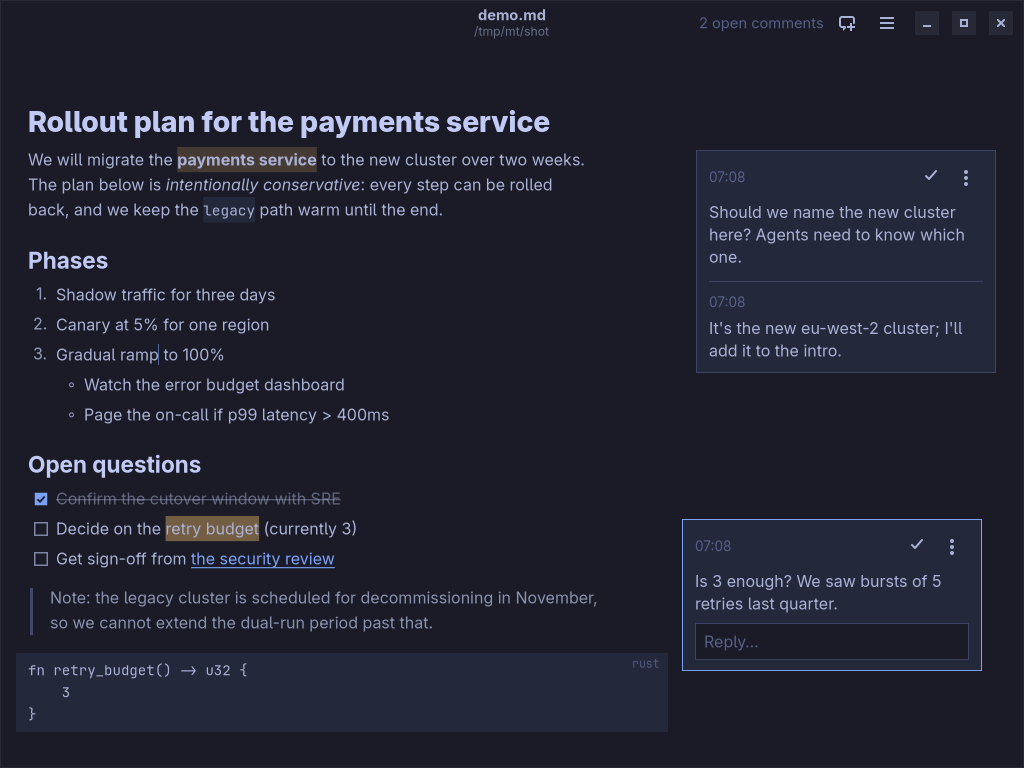
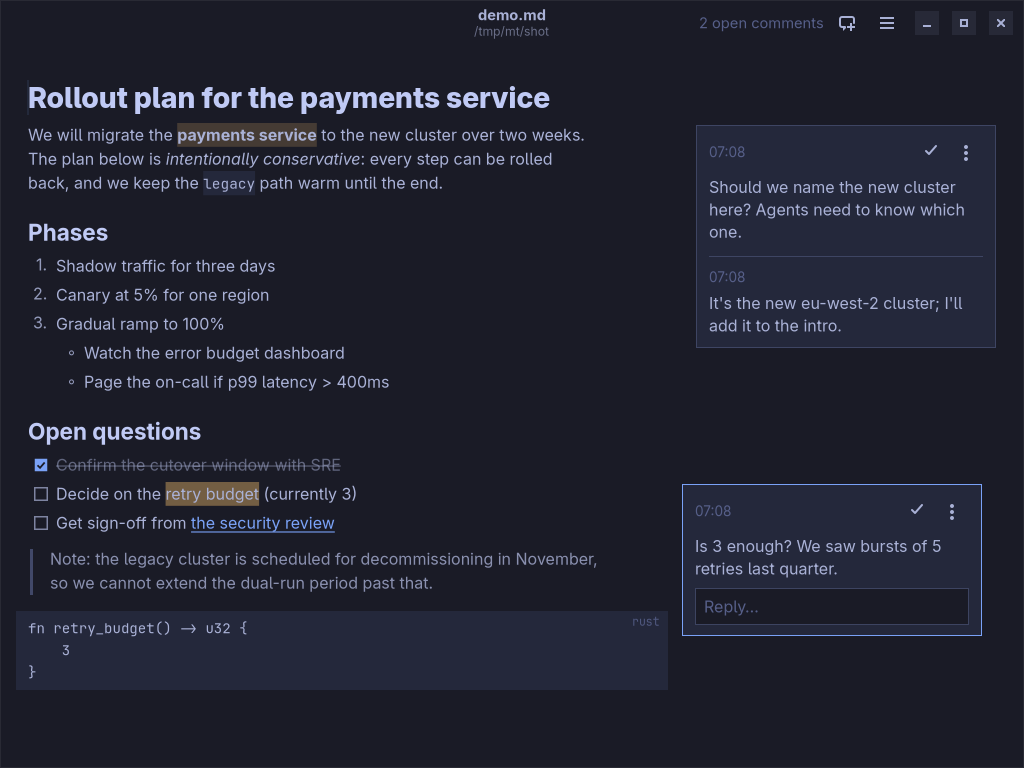
Widen the text column and tighten spacing to common defaults
- Text column up to 760px (about 100 characters) instead of 680px.
  Screen studies of line length find no speed or comprehension cost up
  to about 100 characters per line.
- Body line pitch of exactly 1.5 em (GitHub's, Obsidian's and Notion's
  value), computed from the font's own metrics, since Pango's
  line-height factor multiplies the natural line height, not the size.
- Paragraph gap 12px (so a paragraph break is 1.5 lines), 14px above
  h5/h6, 4px around rules, and a 32px top margin that scales with the
  text size.
- Refresh the README screenshot.

diff --git a/src/ui/view.rs b/src/ui/view.rs
@@ -23,7 +23,9 @@ pub struct Geometry {
 }
 
 pub fn geometry(width: i32, scale: f64) -> Geometry {
-    let max_doc = (680.0 * scale) as i32;
+    // About 100 characters of the body font. Screen studies find no speed
+    // or comprehension cost up to about 100 characters per line.
+    let max_doc = (760.0 * scale) as i32;
     let room = width - CARD_WIDTH - GUTTER_GAP - 2 * SIDE_PAD;
     let doc_width = room.clamp(300, max_doc).min((width - 2 * SIDE_PAD).max(120));
     let mut left = (width - doc_width) / 2;
@@ -82,7 +84,7 @@ mod imp {
             let obj = self.obj();
             obj.set_wrap_mode(gtk::WrapMode::WordChar);
             obj.add_css_class("margin-doc");
-            obj.set_top_margin(56);
+            obj.set_top_margin(32);
             obj.set_bottom_margin(240);
             obj.set_accepts_tab(true);
             obj.set_has_tooltip(true);
@@ -99,6 +101,10 @@ mod imp {
                 self.geometry.set(g);
                 obj.set_left_margin(g.left);
                 obj.set_right_margin((width - g.left - g.doc_width).max(0));
+            }
+            let top = (32.0 * scale).round() as i32;
+            if obj.top_margin() != top {
+                obj.set_top_margin(top);
             }
             let bottom = (height * 2 / 5).max(120);
             if obj.bottom_margin() != bottom {
@@ -613,4 +619,21 @@ impl DocView {
 
 fn set_color(cr: &gtk::cairo::Context, c: &gdk::RGBA) {
     cr.set_source_rgba(c.red() as f64, c.green() as f64, c.blue() as f64, c.alpha() as f64);
+}
+
+#[cfg(test)]
+mod tests {
+    use super::*;
+
+    #[test]
+    fn column_is_about_100_characters_beside_the_gutter() {
+        let g = geometry(1340, 1.0);
+        assert_eq!(g.doc_width, 760);
+        assert!(g.gutter_x + CARD_WIDTH <= 1340);
+        // Narrower windows give the text what is left.
+        let g = geometry(1024, 1.0);
+        assert_eq!(g.doc_width, 1024 - CARD_WIDTH - GUTTER_GAP - 2 * SIDE_PAD);
+        // Larger text widens the column with it.
+        assert_eq!(geometry(2000, 1.25).doc_width, 950);
+    }
 }

diff --git a/src/ui/theme.rs b/src/ui/theme.rs
@@ -154,6 +154,32 @@ pub struct Fonts {
     /// Body size in points.
     pub size: f64,
     pub mono: String,
+    /// The body font's natural line height (ascent plus descent), in ems.
+    pub body_height: f64,
+}
+
+/// Line pitch of body text, in ems of the font size: the value GitHub,
+/// Obsidian and Notion use for body text.
+pub const BODY_LINE_PITCH: f64 = 1.5;
+
+/// Natural line height of a font family, in ems.
+fn natural_height(family: &str) -> f64 {
+    let mut desc = pango::FontDescription::new();
+    desc.set_family(family);
+    desc.set_absolute_size(100.0 * pango::SCALE as f64);
+    let ctx = pangocairo::FontMap::default().create_context();
+    let m = ctx.metrics(Some(&desc), None);
+    let h = (m.ascent() + m.descent()) as f64 / pango::SCALE as f64 / 100.0;
+    if h > 0.5 { h } else { 1.2 }
+}
+
+impl Fonts {
+    /// Pango's line-height factor that gives body text
+    /// [`BODY_LINE_PITCH`]: the factor multiplies the font's natural
+    /// height, not its size.
+    pub fn body_line_factor(&self) -> f64 {
+        BODY_LINE_PITCH / self.body_height
+    }
 }
 
 impl Fonts {
@@ -177,6 +203,7 @@ impl Fonts {
             mono = family;
         }
         Fonts {
+            body_height: natural_height(&body.0),
             body: body.0,
             size: body.1,
             mono,

diff --git a/src/md/doc.rs b/src/md/doc.rs
@@ -214,13 +214,15 @@ pub struct Doc {
     pub soft_breaks: Vec<usize>,
 }
 
-// Vertical spacing at a 12pt body size, in pixels.
+// Vertical spacing at a 12pt (16px) body size, in pixels, within the range
+// of common editors' and word processors' defaults. With a 24px line pitch,
+// a paragraph break is 1.5 lines.
 const GAP_ITEM: u16 = 5;
-const GAP_BLOCK: u16 = 14;
+const GAP_BLOCK: u16 = 12;
 const GAP_AFTER_HEADING: u16 = 6;
 const CODE_PAD: u16 = 10;
-const RULE_PAD: u16 = 8;
-const HEADING_ABOVE: [u16; 6] = [26, 22, 18, 14, 12, 12];
+const RULE_PAD: u16 = 4;
+const HEADING_ABOVE: [u16; 6] = [26, 22, 18, 14, 14, 14];
 
 fn options() -> Options {
     Options::ENABLE_TABLES

diff --git a/src/ui/buffer.rs b/src/ui/buffer.rs
@@ -1003,7 +1003,7 @@ fn configure_tag(tag: &gtk::TextTag, style: Style, look: &Look, source_mode: boo
     let px = |v: f64| (v * s).round() as i32;
     let mono = look.fonts.mono.as_str();
     match style {
-        Style::Para => tag.set_line_height(1.3),
+        Style::Para => tag.set_line_height(look.fonts.body_line_factor() as f32),
         Style::Heading(n) => {
             let i = (n.clamp(1, 6) - 1) as usize;
             let scales = [1.8, 1.42, 1.2, 1.07, 1.0, 0.94];
